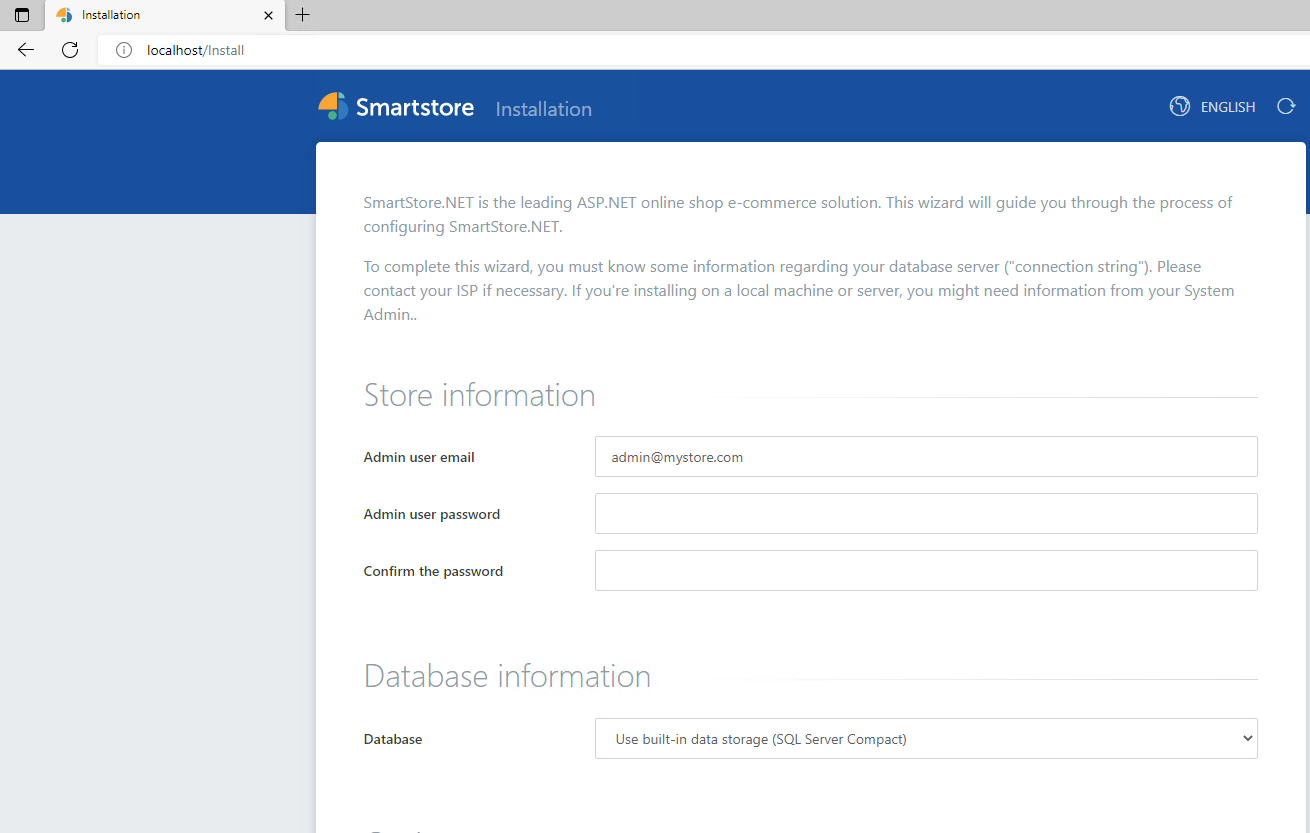
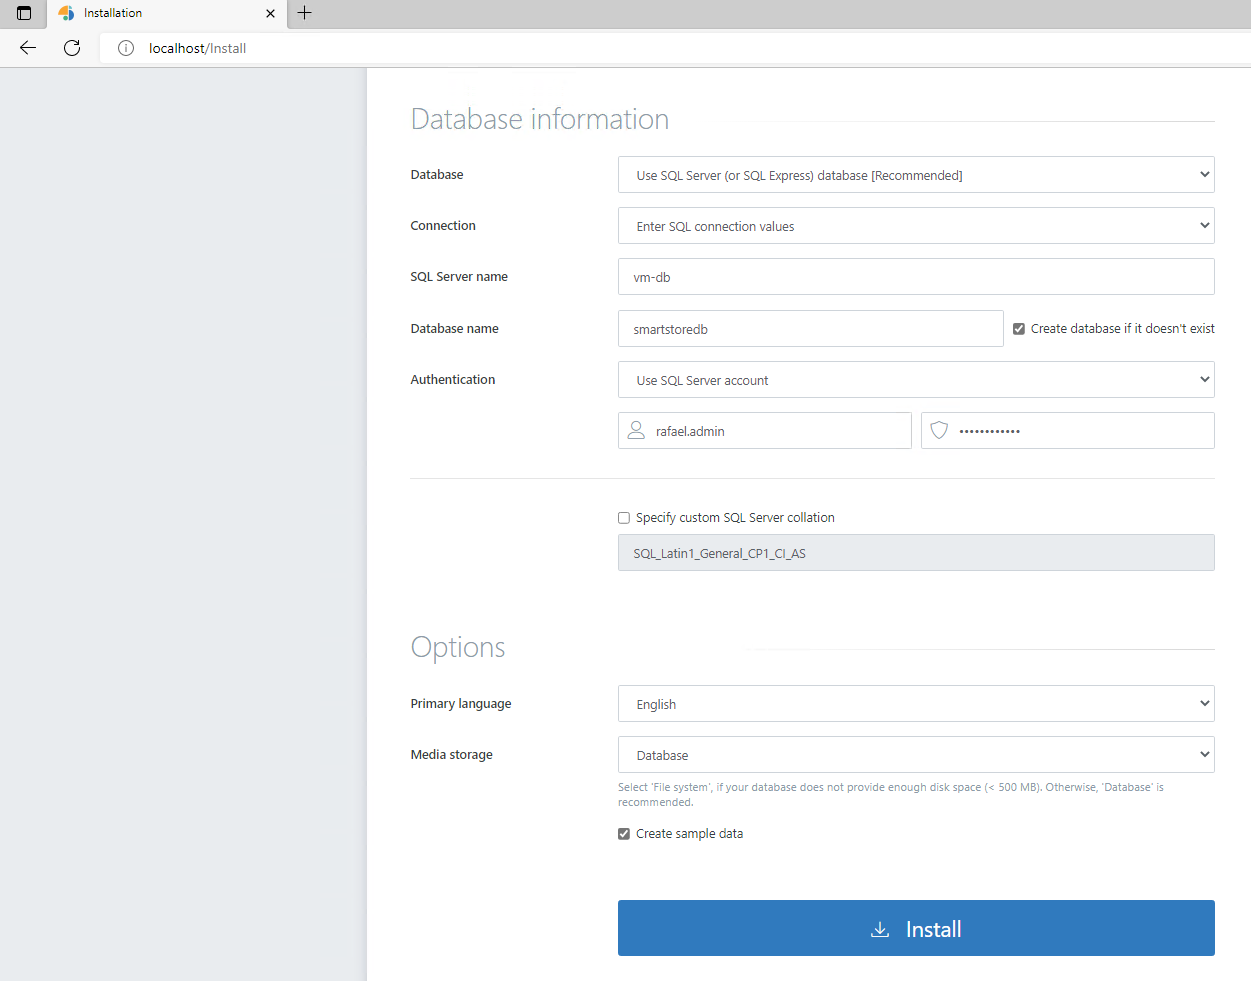
APP

diff --git a/labs.md b/labs.md
@@ -55,6 +55,6 @@ Também pare o site default por causa que o mesmo utiliza a porta 80.
 
 ![mon13](/images/mon13.png)
 
-👉 Abra o navegador e entre em http://localhost
+👉 Abra o navegador e entre em http://localhost e preencha os campos e após, clique em install.
 
 ![mon13](/images/mon13.png)
